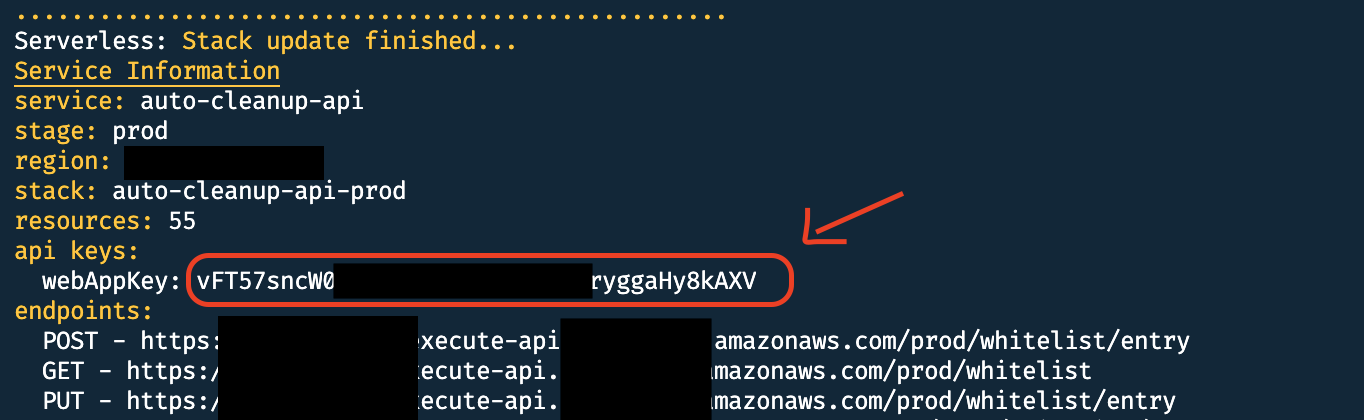
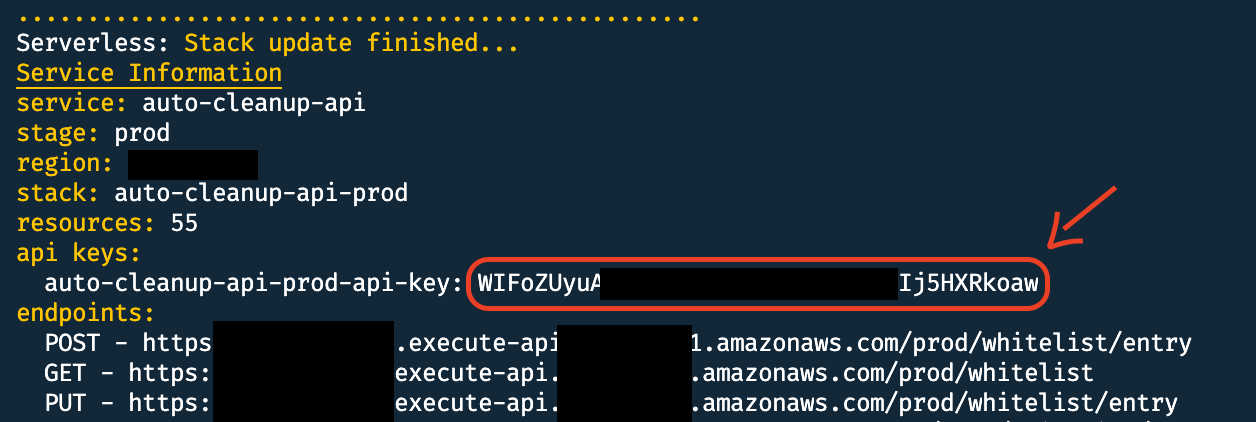
Update name of api key

Changed region(s): [[0.0, 0.031, 0.9626, 1.0], [0.8694, 0.4333, 0.9005, 0.4952]]

diff --git a/api/README.md b/api/README.md
@@ -33,7 +33,7 @@ The Auto Cleanup API is a serverless Lambda-based API built to facilitate the we
    npm run deploy -- [--region] [--aws-profile]
    ```
 
-5. After the deployment has completed, annotate the webAppKey as it's the x-api-key needed to call the API and the API key to use in the web app.
+5. After the deployment has completed, annotate the api key as it's the x-api-key needed to call the API and to use in the web app.
    ![API Key](./static/api-key.png)
 
 ## Removal
